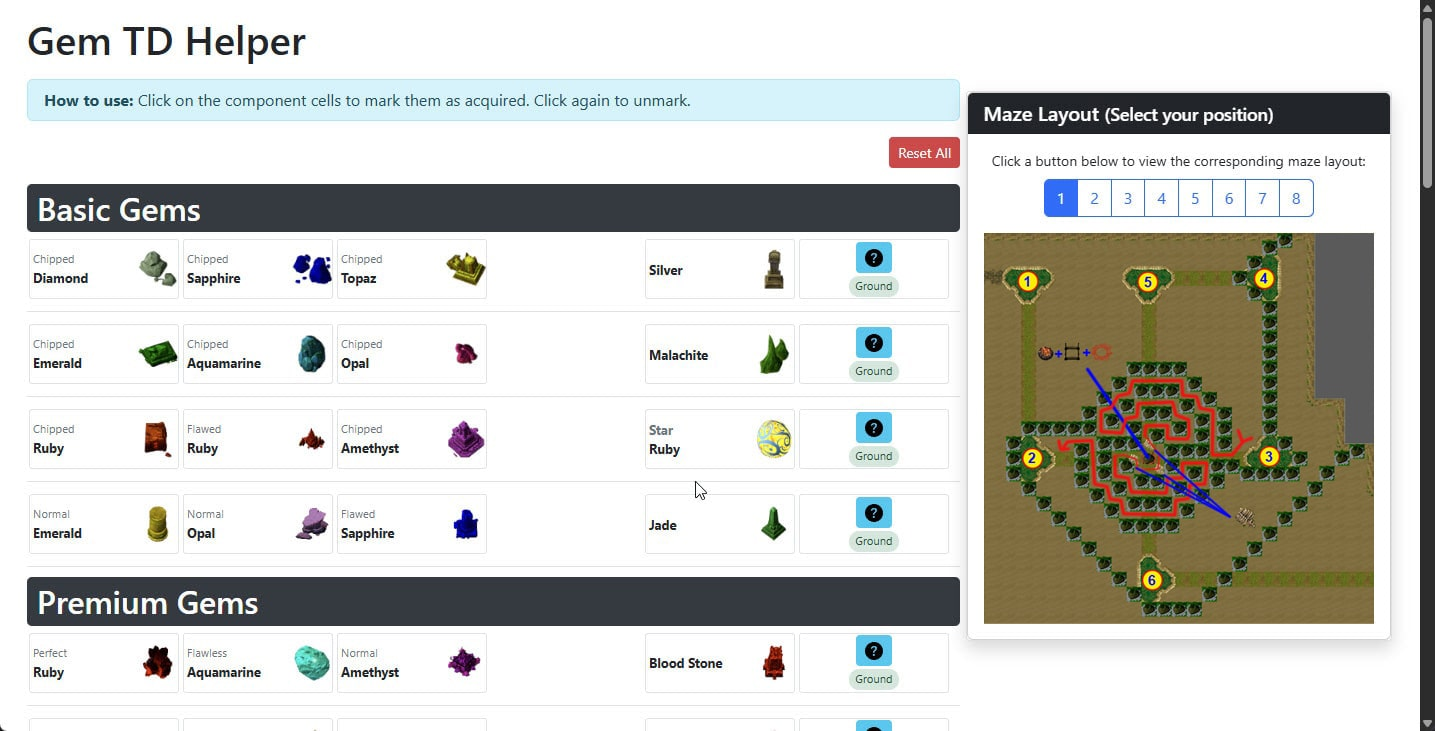
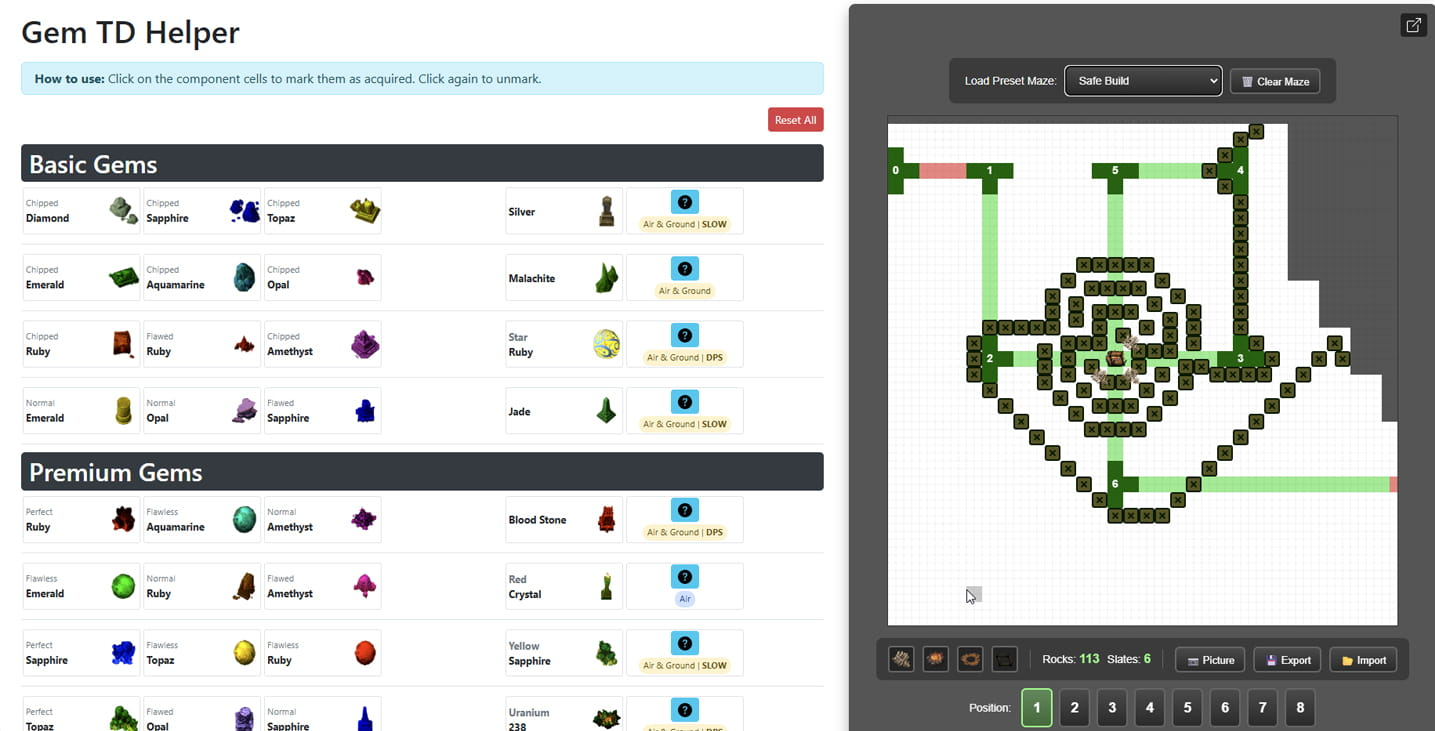
Included Builder

diff --git a/index.html b/index.html
@@ -195,19 +195,54 @@
         @media (min-width: 1200px) {
             #maze-container {
                 position: fixed;
-                right: 2%;
-                top: 50%;
-                transform: translateY(-50%);
-                width: 30%;
-                max-width: 650px;
+                right: 1%;
+                top: 5px;
+                width: 700px;
+                height: calc(100vh - 10px);
                 z-index: 100;
-                box-shadow: 0 0.5rem 1rem rgba(0, 0, 0, 0.15);
-                border: 1px solid rgba(0, 0, 0, 0.125);
-                border-radius: 0.25rem;
             }
-            
+
+            #builder-iframe {
+                width: 100%;
+                height: 100%;
+                border: none;
+                border-radius: 8px;
+                box-shadow: 0 0.5rem 1rem rgba(0, 0, 0, 0.3);
+            }
+
+            .builder-newtab-btn {
+                position: absolute;
+                top: 12px;
+                right: 12px;
+                z-index: 110;
+                background: rgba(0, 0, 0, 0.6);
+                color: #fff;
+                padding: 6px 8px;
+                border-radius: 4px;
+                text-decoration: none;
+                transition: background 0.2s;
+                display: flex;
+                align-items: center;
+                justify-content: center;
+            }
+
+            .builder-newtab-btn:hover {
+                background: rgba(0, 0, 0, 0.8);
+                color: #fff;
+            }
+
             .container-fluid {
-                padding-right: 32%;
+                padding-right: calc(700px + 2%);
+            }
+        }
+
+        @media (min-width: 1400px) {
+            #maze-container {
+                width: 750px;
+            }
+
+            .container-fluid {
+                padding-right: calc(750px + 2%);
             }
         }
 
@@ -1816,27 +1851,15 @@
 
         </div>
         
-        <!-- Maze container (fixed position on right side for xl screens) -->
+        <!-- Maze Builder (fixed position on right side for xl screens) -->
         <div class="d-none d-xl-block" id="maze-container">
-            <div class="card">
-                <div class="card-header bg-dark text-white">
-                    <h5 class="mb-0">Maze Layout <small>(Select your position)</small></h5>
-                </div>
-                <div class="card-body text-center">
-                    <p class="small mb-2">Click a button below to view the corresponding maze layout:</p>
-                    <div class="btn-group mb-3" role="group" aria-label="Maze Selection">
-                        <button type="button" class="btn btn-outline-primary active" data-maze="1">1</button>
-                        <button type="button" class="btn btn-outline-primary" data-maze="2">2</button>
-                        <button type="button" class="btn btn-outline-primary" data-maze="3">3</button>
-                        <button type="button" class="btn btn-outline-primary" data-maze="4">4</button>
-                        <button type="button" class="btn btn-outline-primary" data-maze="5">5</button>
-                        <button type="button" class="btn btn-outline-primary" data-maze="6">6</button>
-                        <button type="button" class="btn btn-outline-primary" data-maze="7">7</button>
-                        <button type="button" class="btn btn-outline-primary" data-maze="8">8</button>
-                    </div>
-                    <img src="maze/1.jpg" alt="Gem TD Maze" id="maze-image" class="img-fluid">
-                </div>
-            </div>
+            <a href="builder/" target="_blank" class="builder-newtab-btn" title="Open in new tab">
+                <svg xmlns="http://www.w3.org/2000/svg" width="18" height="18" fill="currentColor" viewBox="0 0 16 16">
+                    <path fill-rule="evenodd" d="M8.636 3.5a.5.5 0 0 0-.5-.5H1.5A1.5 1.5 0 0 0 0 4.5v10A1.5 1.5 0 0 0 1.5 16h10a1.5 1.5 0 0 0 1.5-1.5V7.864a.5.5 0 0 0-1 0V14.5a.5.5 0 0 1-.5.5h-10a.5.5 0 0 1-.5-.5v-10a.5.5 0 0 1 .5-.5h6.636a.5.5 0 0 0 .5-.5z"/>
+                    <path fill-rule="evenodd" d="M16 .5a.5.5 0 0 0-.5-.5h-5a.5.5 0 0 0 0 1h3.793L6.146 9.146a.5.5 0 1 0 .708.708L15 1.707V5.5a.5.5 0 0 0 1 0v-5z"/>
+                </svg>
+            </a>
+            <iframe src="builder/" id="builder-iframe"></iframe>
         </div>
     
     <!-- Bootstrap & jQuery JS -->
@@ -1885,15 +1908,6 @@
                 $('#infoModalBody').text(info);
             });
             
-            // Maze selection buttons
-            $('.btn-group button[data-maze]').on('click', function() {
-                const mazeNumber = $(this).data('maze');
-                $('#maze-image').attr('src', `maze/${mazeNumber}.jpg`);
-                
-                // Update active button state
-                $('.btn-group button[data-maze]').removeClass('active');
-                $(this).addClass('active');
-            });
         });
     </script>
 </body>

diff --git a/builder/index.html b/builder/index.html
@@ -14,6 +14,30 @@
             margin: 0;
             font-family: Arial, sans-serif;
         }
+
+        /* When embedded in iframe, remove min-height to prevent scrollbars */
+        body.embedded {
+            min-height: auto;
+            padding: 10px 0;
+        }
+
+        body.embedded .instructions {
+            display: none;
+        }
+
+        body.embedded .preset-bar {
+            margin-bottom: 8px;
+            padding: 6px 12px;
+        }
+
+        body.embedded .info-bar {
+            margin-top: 8px;
+            padding: 6px 10px;
+        }
+
+        body.embedded .buttons {
+            margin-top: 6px;
+        }
         canvas { border: 1px solid #333; }
         .buttons {
             display: flex;
@@ -223,6 +247,11 @@
     </div>
     
     <script>
+        // Detect if embedded in iframe
+        if (window.self !== window.top) {
+            document.body.classList.add('embedded');
+        }
+
         const canvas = document.getElementById('map');
         const ctx = canvas.getContext('2d');
         const CELL = 10;
